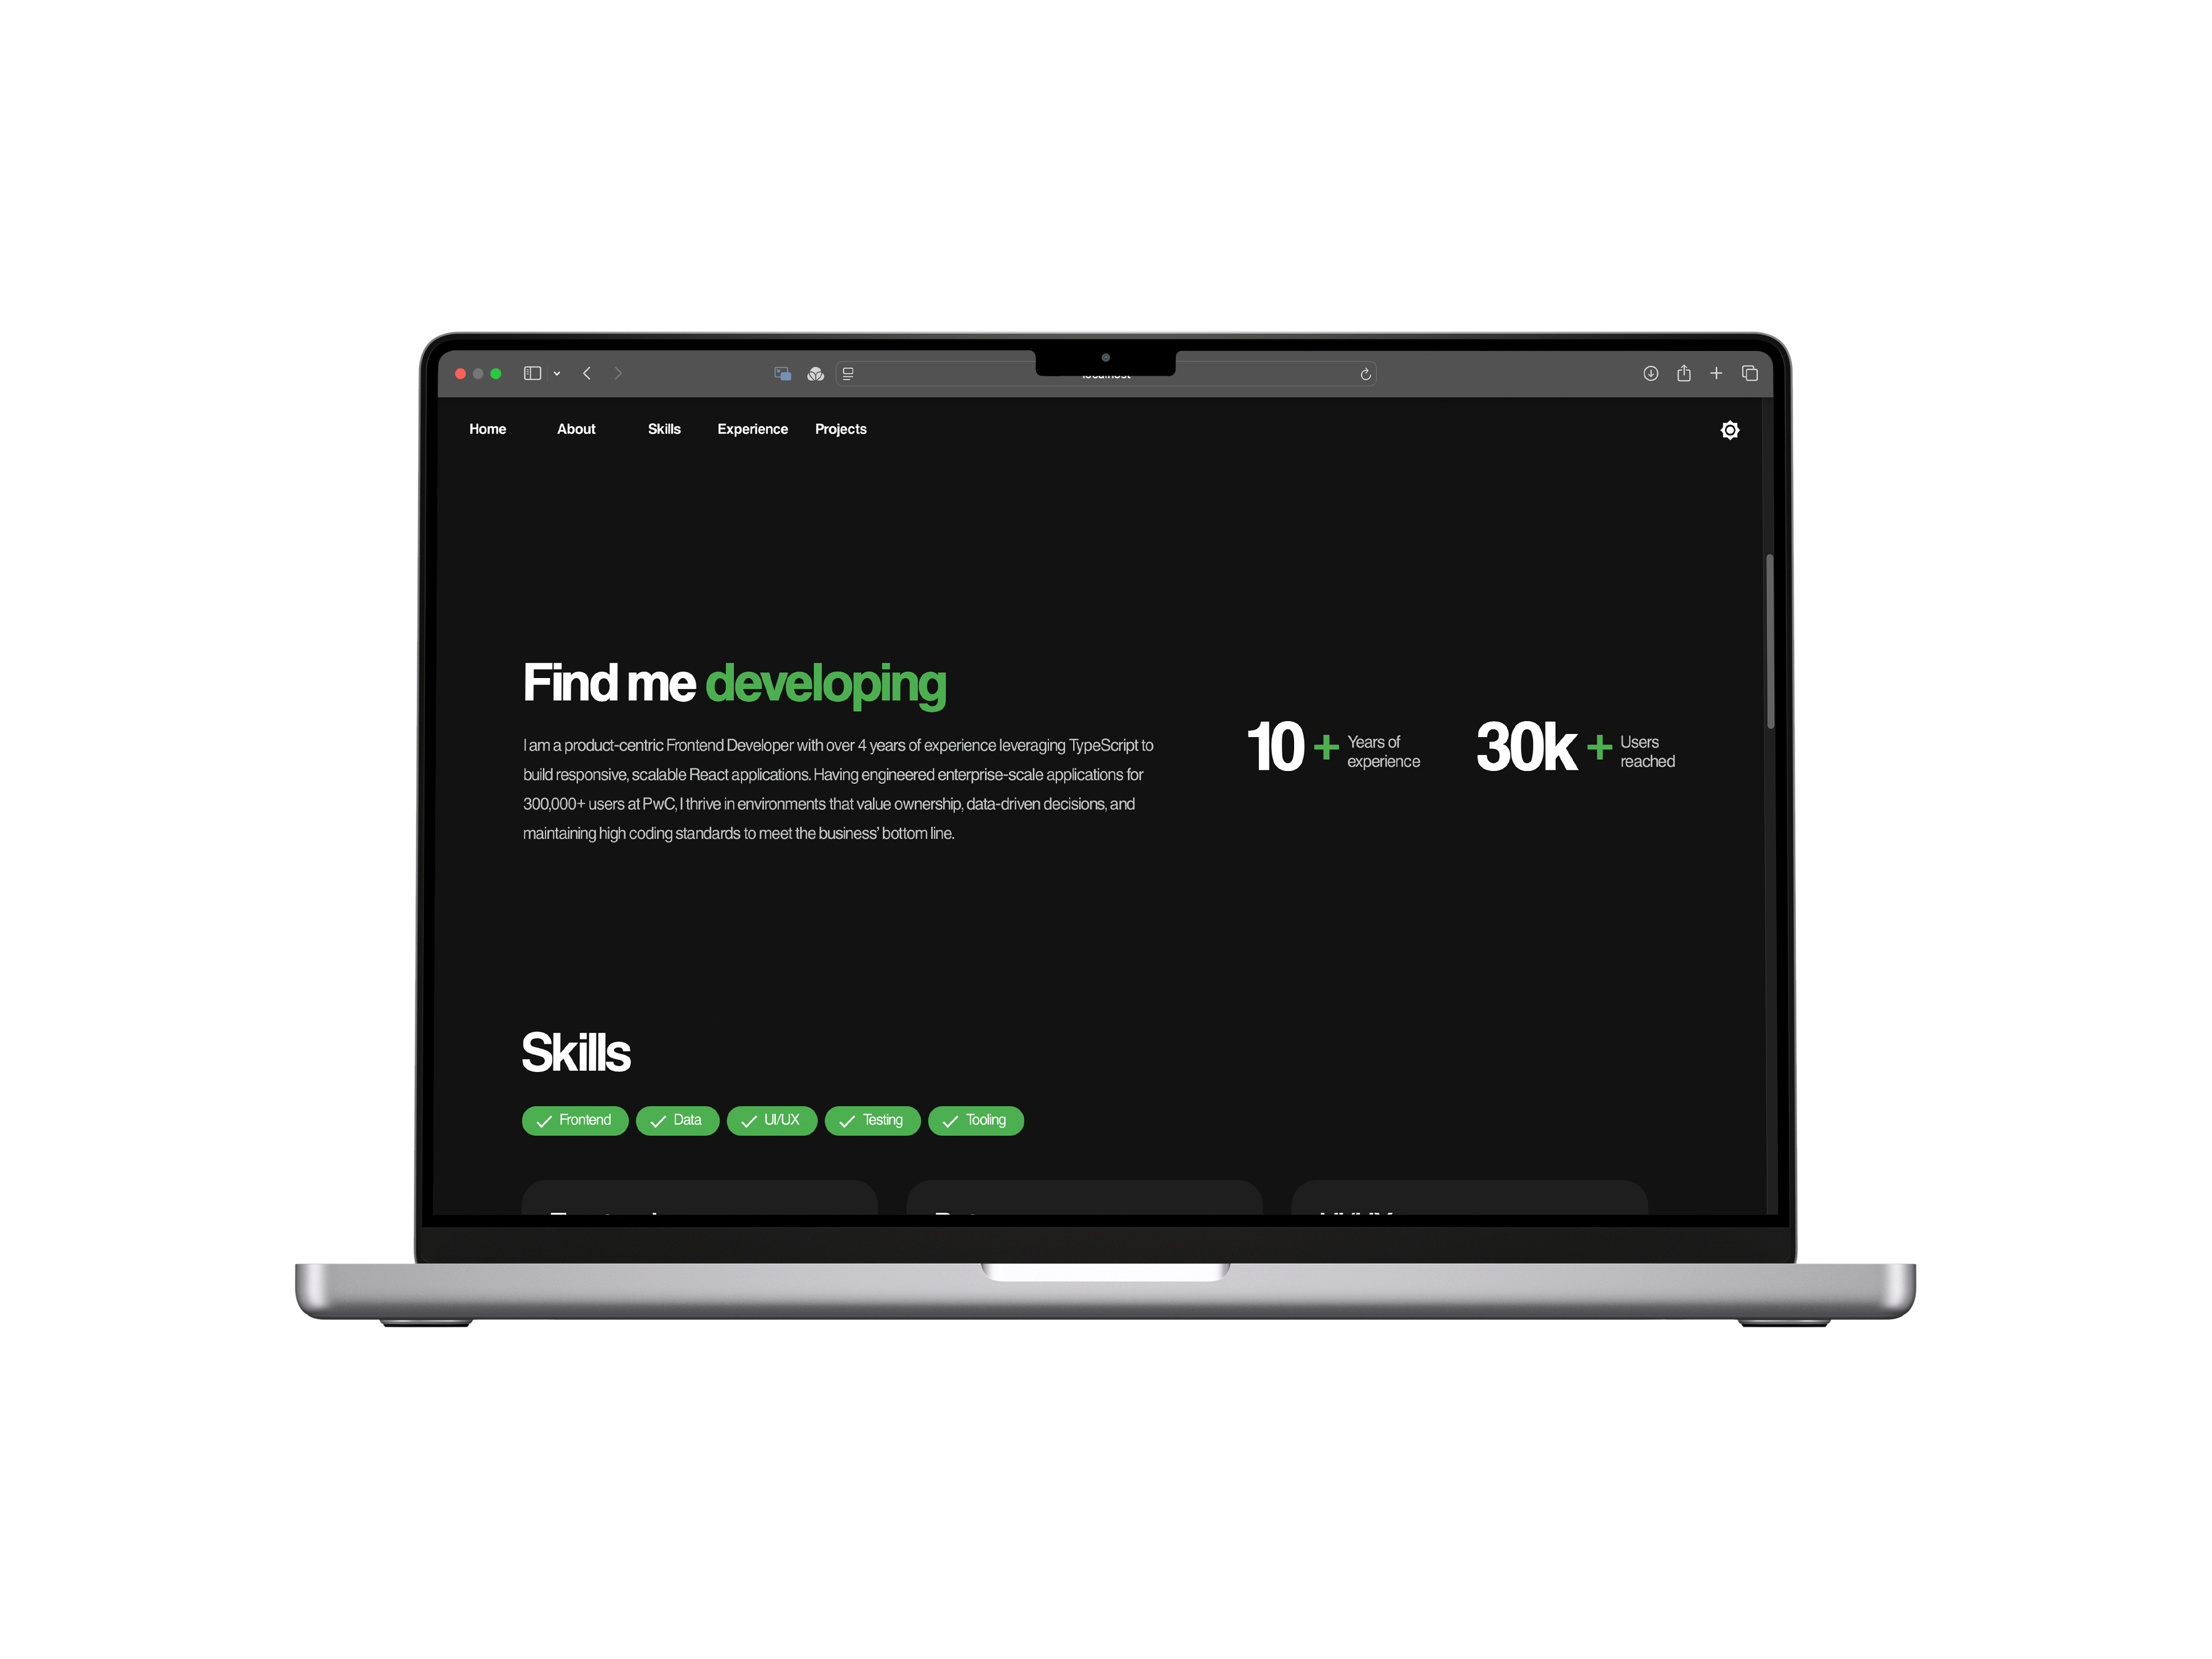
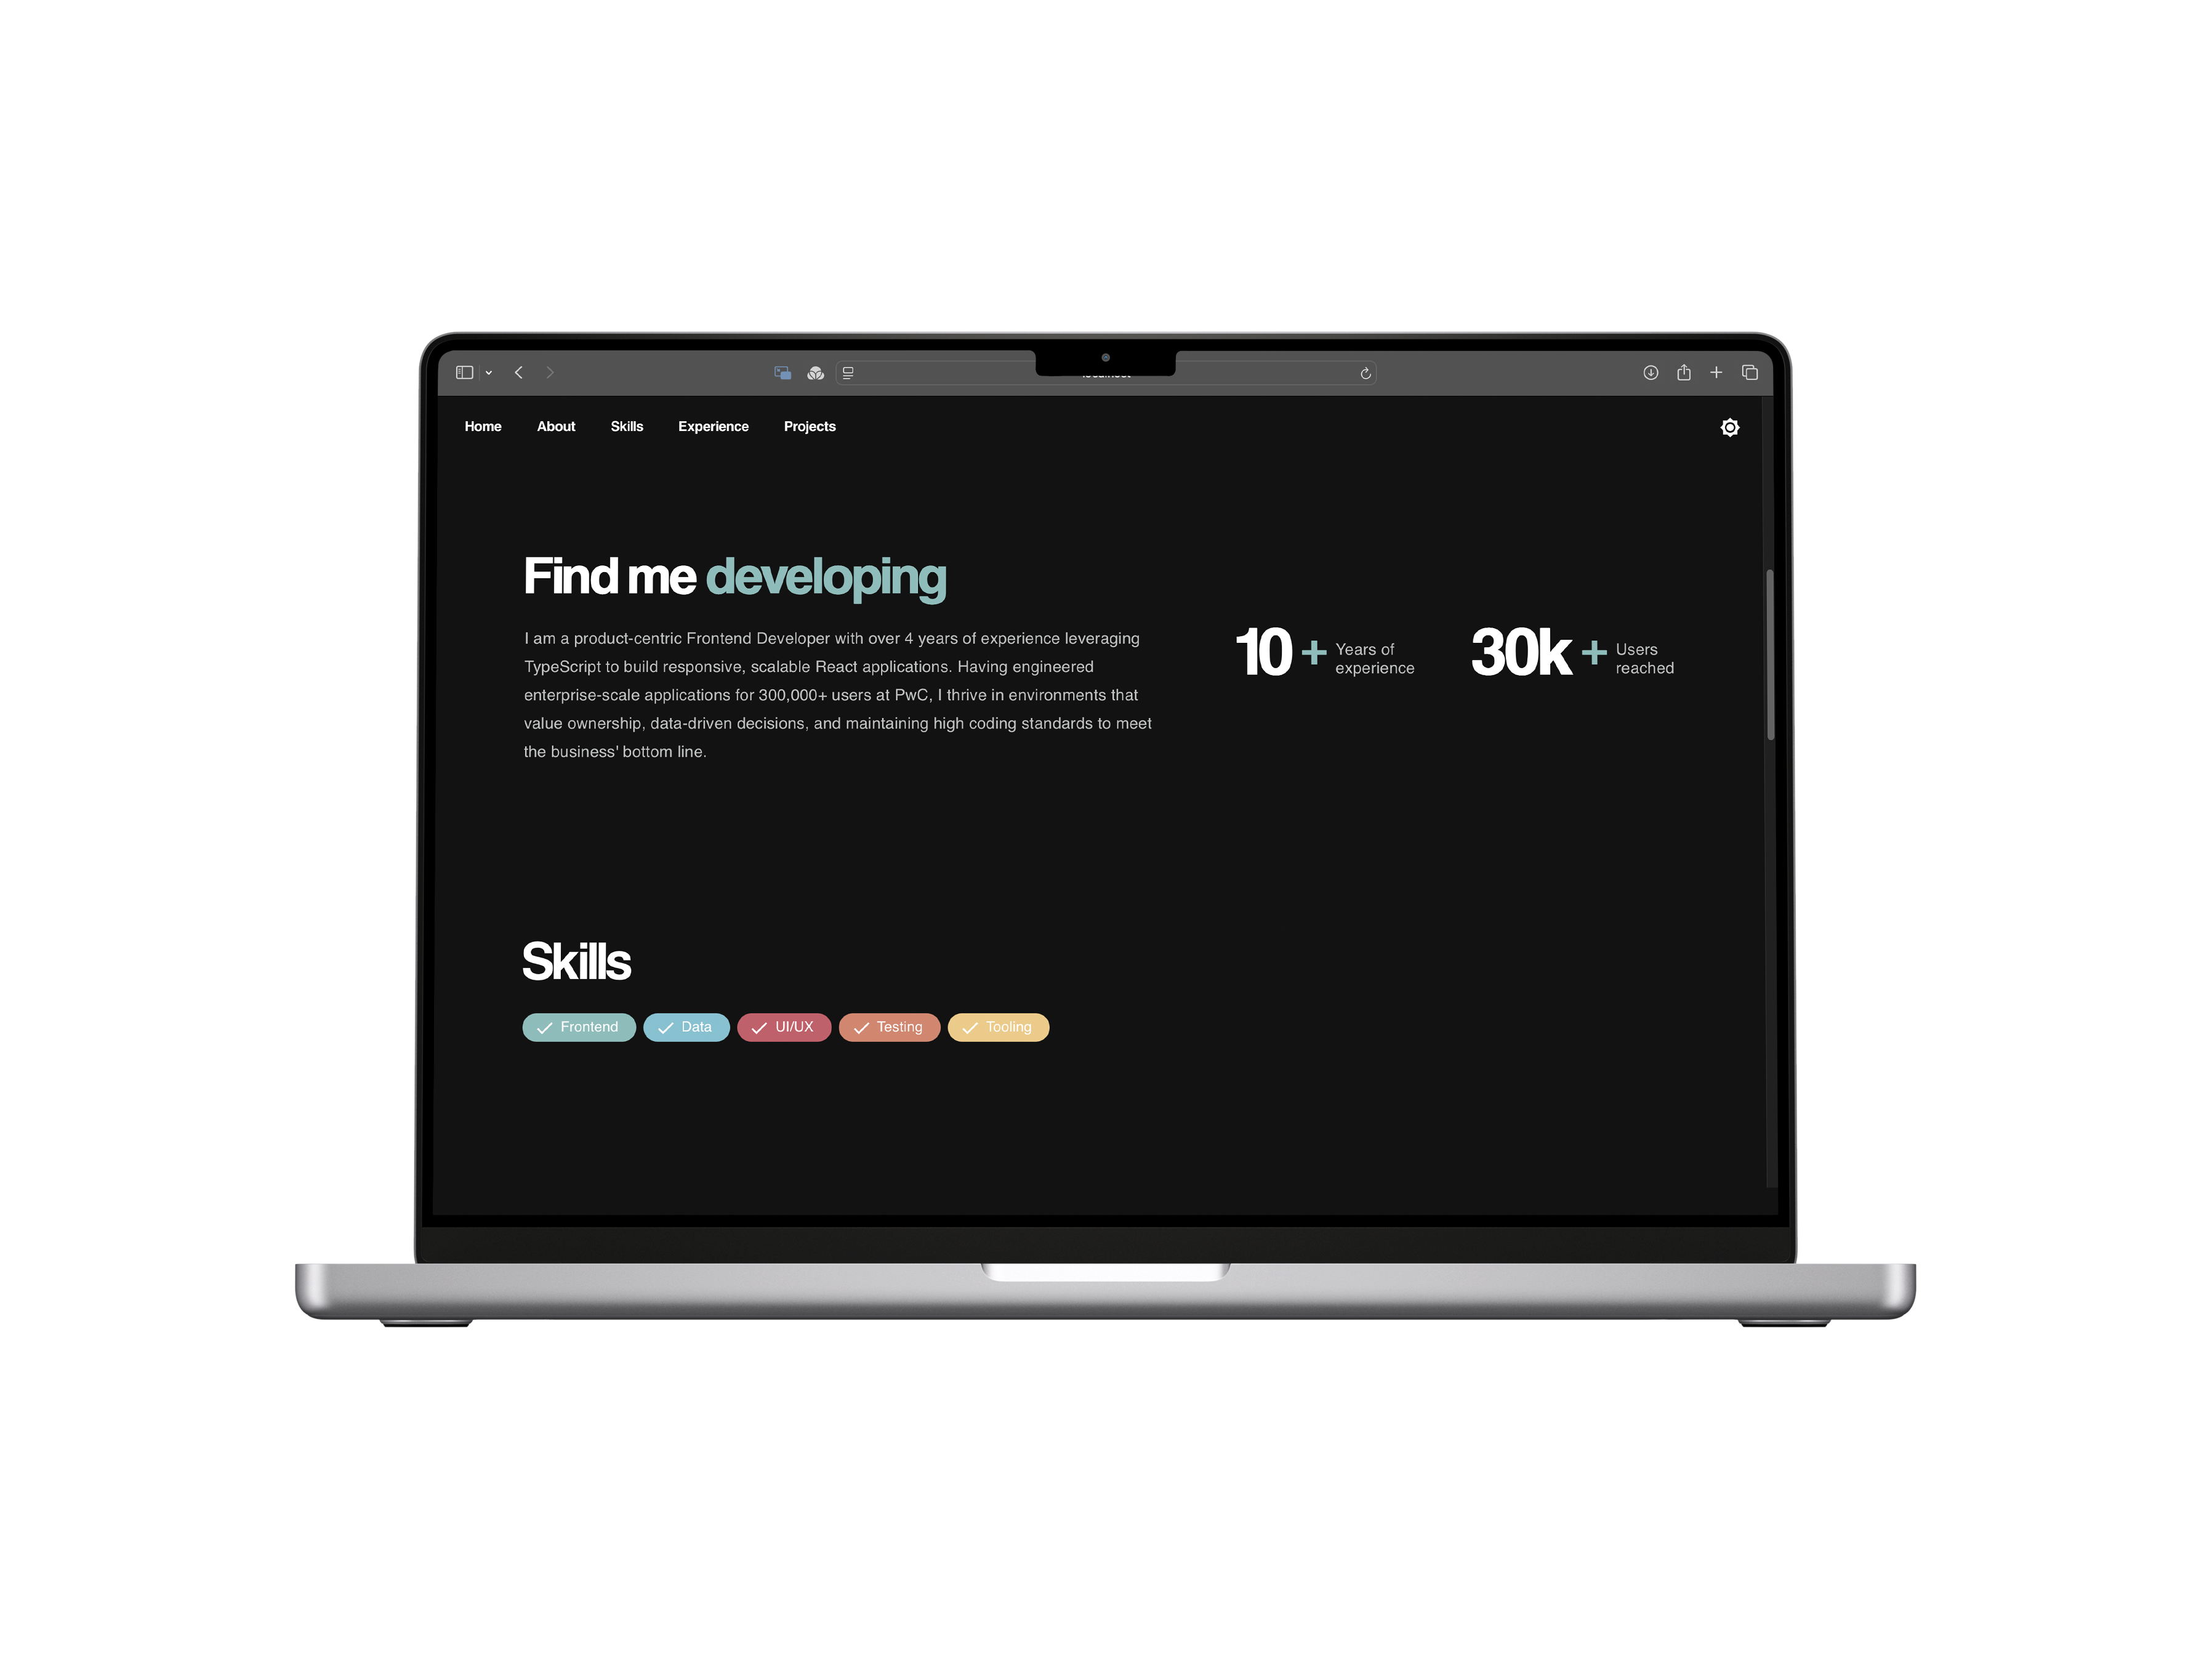
ui(assets): update asset images and scale animation

diff --git a/jazib-askari/src/components/projects/ProjectTabContent.tsx b/jazib-askari/src/components/projects/ProjectTabContent.tsx
@@ -106,7 +106,7 @@ const ProjectTabContent = ({ project, trigger }: Props) => {
           minHeight: { xs: "250px", md: "100%" },
           cursor: "pointer",
           "&:hover img": {
-            transform: 'scale(1.1)',
+            transform: 'scale(1.3)',
           }
         }}
       >